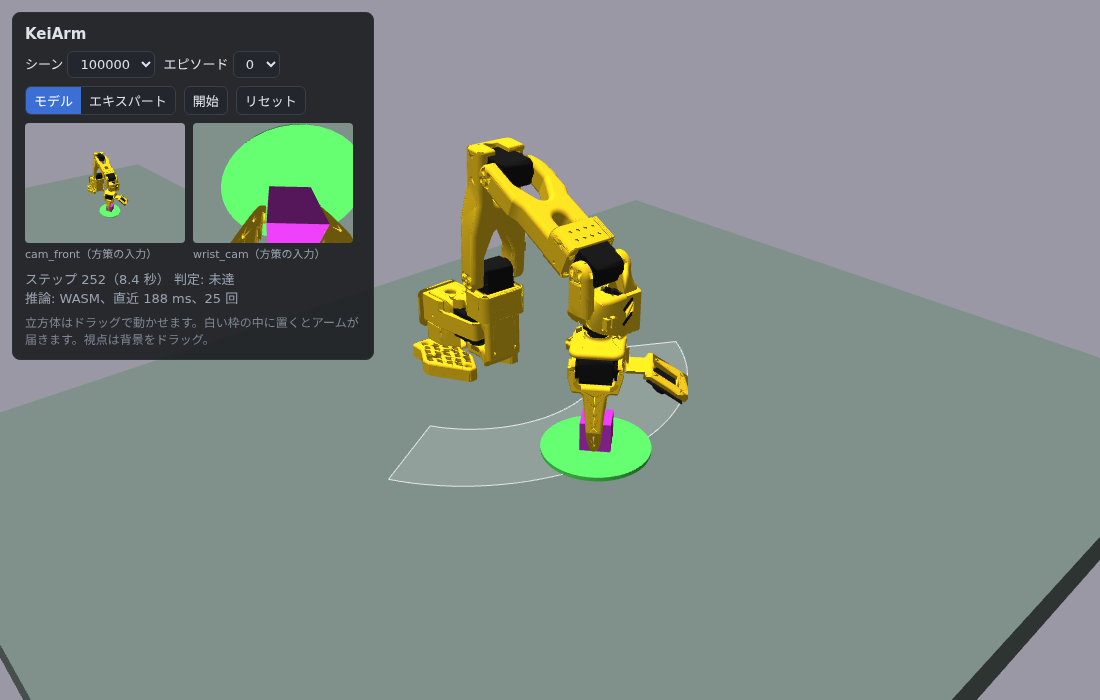
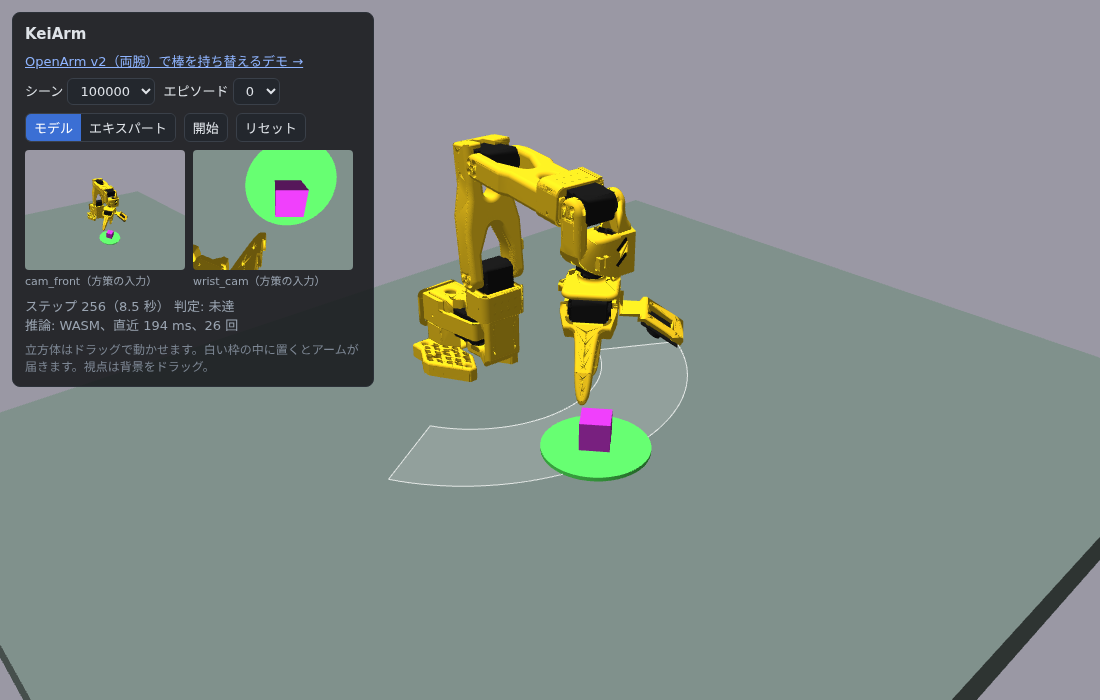
PROGRESS: milestone 2 phase 7 done, OpenArm demo checked at the public URL

Changed region(s): [[0.0, 0.06, 0.34, 0.57], [0.4018, 0.18, 0.6491, 0.66], [0.4018, 0.39, 0.4327, 0.42]]

diff --git a/PROGRESS.md b/PROGRESS.md
@@ -1,10 +1,10 @@
 # PROGRESS
 
-最終更新: 2026-11-12（マイルストーン 2 の Phase 7、公開の直前まで）
+最終更新: 2026-11-13（マイルストーン 2 の Phase 7 完了、公開済み）
 
 ## 現在地
 
-**マイルストーン 2（OpenArm v2、棒の持ち替え）の Phase 7（ブラウザ推論と公開）: ローカルのビルドで閉ループを確認済み（ブラウザ内評価 299/300、外乱スイート 499/500、実時間 + ドラッグ 8/8）。残りは利用者の確認を取って `openarm-m2` を `main` へ merge・push し、公開 URL で `tools/browser_demo_check_openarm.py --url https://southern-star.github.io/keiarm/` を通すこと。**計画と合格基準は `docs/milestone2.md`。マイルストーン 1（SO-101）は下の表のとおり Phase 7 まで完了し、Phase 8（公開準備）は未着手のまま。
+**マイルストーン 2（OpenArm v2、棒の持ち替え）: Phase 7 まで完了。https://southern-star.github.io/keiarm/openarm.html でモデルが棒を持ち替えて皿に置き、ドラッグで動かしても置き直す（公開 URL で実時間 + ドラッグ 8/8、2026-11-13）。** 計画と合格基準は `docs/milestone2.md`。マイルストーン 1（SO-101）は下の表のとおり Phase 7 まで完了し、Phase 8（公開準備）は未着手のまま。
 
 ### マイルストーン 2
 
@@ -17,7 +17,7 @@
 | 4 | ブラウザ先行検証 | 完了（再生 24/24、描画差 0.8〜1.7、配信 gzip 4.2 MB） |
 | 5 | BC | 完了（100/100。外乱つきは move 98、knock 83、drop 45、plate 100） |
 | 6 | DAgger（外乱つき） | 完了（外乱つき 1199/1200、外乱なし 300/300） |
-| 7 | ブラウザ推論と公開 | ローカルで確認済み。公開（`main` への merge）待ち |
+| 7 | ブラウザ推論と公開 | 完了（公開 URL で 8/8、ブラウザ内評価は Python と差なし） |
 
 ### マイルストーン 1（SO-101）
 
@@ -60,11 +60,12 @@
 |---|---|---|---|
 | 外乱なし × 3 本 | 299/300 | 300/300 | 1 |
 | 外乱スイート × 1 本（none / move / knock / drop / plate） | 100 / 100 / 100 / 99 / 100 | 全て 100 | 全て 1 |
-| 実時間（推論を待たない）+ 成功後に棒をドラッグして掴み直し | 8/8 シーン | — | — |
+| 実時間（推論を待たない）+ 成功後に棒をドラッグして掴み直し | 8/8 シーン（ローカル）、8/8（公開 URL） | — | — |
 
 - ブラウザだけの失敗は 2 本とも scene 100005（外乱なしの ep 1 が「持ち上げ」、drop の ep 0 が「左手の搬送」）。実時間の確認でも最初は 100005 のドラッグ後だけ 30 秒で終わらず、再実行 2 回は成功（435、444 ステップ）。WASM の物理は Python とビット一致しないので、この程度の差は想定内
 - 所要ステップの中央値は Python と同じ（外乱なし 225）
 - デモの表示で、段階を「最遠の段階」から「今の段階」に変えた（ドラッグ後も「完了」のままだったため）。評価は最遠の段階のまま
+- `openarm-m2` を `main` へ fast-forward で merge して公開（ed528ea、2026-11-13）。公開後の確認で SO-101 のページも 14/14
 - 学習用の画像キャッシュ `runs/cache/images_26a4d8d1ed7995a5.npy`（23.5 GB）は消してよい
 
 ## マイルストーン 2 Phase 6（2026-11-12）でやったこと

diff --git a/docs/milestone2.md b/docs/milestone2.md
@@ -44,7 +44,7 @@
 | 4 | ブラウザ先行検証（学習より前） | エキスパートの行動列をブラウザで再生して成功が一致。描画の差を測る。間引いたメッシュで配信サイズを確認 → **完了**（再生 24/24、描画差 0.8〜1.7、gzip 4.2 MB） |
 | 5 | BC | 成功率 > 0 → **完了**（100/100、黒塗りの対照は 0/100） |
 | 6 | DAgger（外乱つき） | 外乱つきで 90% 以上（目安。Phase 5 の結果を見て決め直す） → **完了**（`oa_r1`、外乱つき 1199/1200） |
-| 7 | ブラウザ推論と公開 | 公開 URL で閉ループが動く → ローカルのビルドでは確認済み（ブラウザ内評価 299/300・外乱スイート 499/500、Python と差なし。実時間 + ドラッグ 8/8）。公開 URL での確認は `main` への merge 後 |
+| 7 | ブラウザ推論と公開 | 公開 URL で閉ループが動く → **完了**（ブラウザ内評価 299/300・外乱スイート 499/500 で Python と差なし。公開 URL で実時間 + ドラッグ 8/8） |
 
 ## 評価ハーネス（Phase 3 で確定）
 
